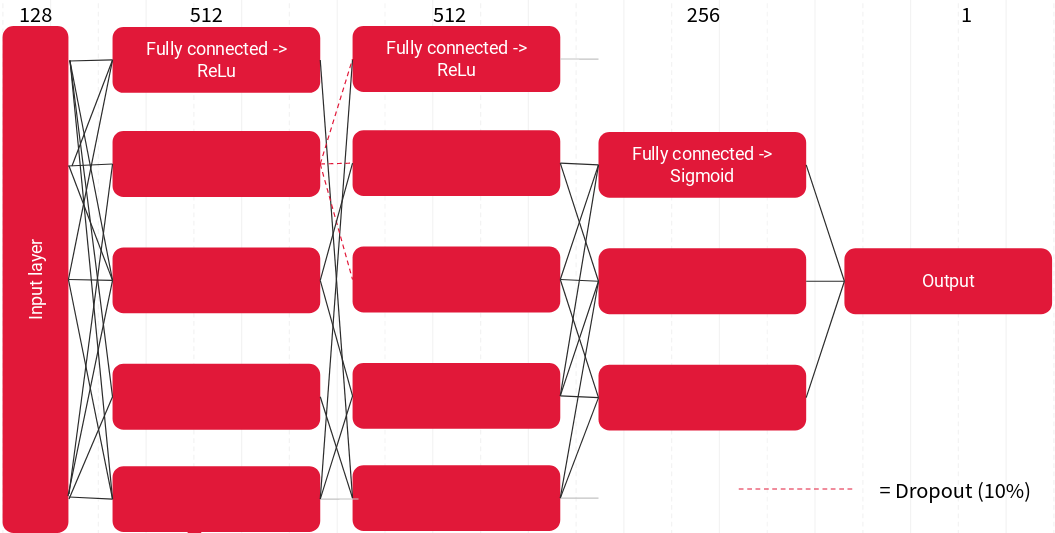
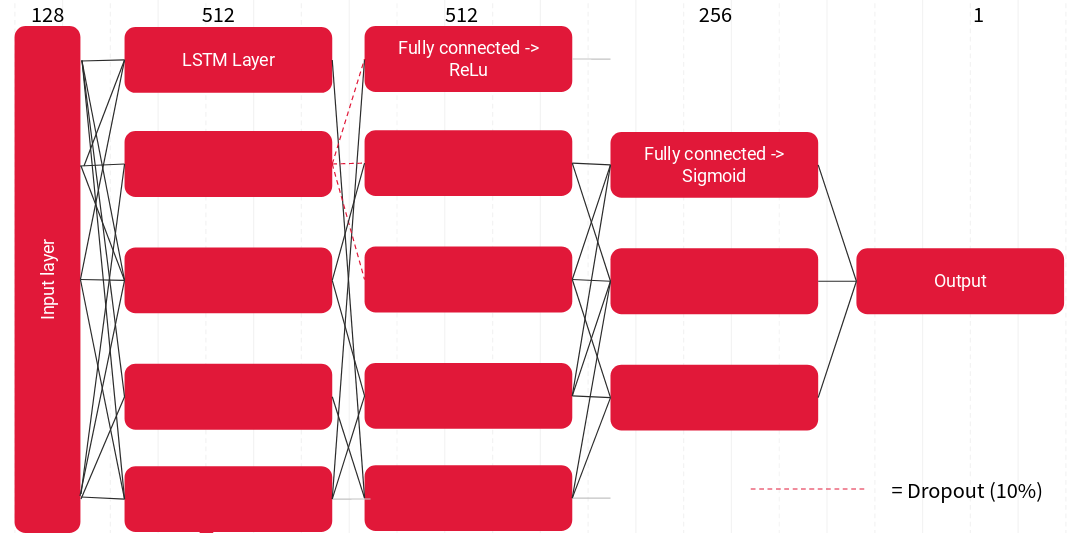
Added figure captions

diff --git a/README.md b/README.md
@@ -58,6 +58,9 @@ Contained within the `Ensembl_api_training_data_download_and_gene_confidence_cal
 For processing multiple genomes on the EMBL EBI HPC platform, a script in the `run scripts` directory is provided to facilitate batch processing.
 
 ![Gene scoring](Images_readme/Gene_scoring.png)
+***Figure 1**: Gene Annotation Quality Evaluation*
+
+*Annotations are analyzed by `high_confidence_genes_gsoc23_full_gff_with_repeats_with_strand.pl` based on parameters like intron size, canonical splicing, and alignment with recognized proteins.*
 
 ### Cleaning up Genomes
 
@@ -87,7 +90,8 @@ The `Training_data_cleaning` directory is pivotal for this process:
 Furthermore, the `Nextflow_data_preprocession` directory contains a Nextflow pipeline that merges data acquisition and the above cleaning steps. This integrated solution prepares high-quality training data, although stability might vary.
 
 ![Data cleaning](Images_readme/Data_cleaning.png)
-
+***Figure 2**: Gene Annotation Quality Evaluation*
+*This figure illustrates two strategies for refining gene annotations and associated sequences. The first strategy, **GFF-Only Filtering**, focuses on improving `.gff` annotations while preserving sequence integrity. It hypothesizes that low-quality genes might be pseudogenes without protein-coding capacity. Such genes are treated as "intergenic regions" during classifier training. The second strategy, **GFF Filtering & Sequence Excision**, takes a more comprehensive approach by addressing both `.gff` annotations and linked sequences. It excludes elements of lower confidence due to limited information about low-quality genes, which are consequently omitted from training data. The process of gene annotation refinement involves the removal of low-quality and overlapping genes.* 
 
 ### Feature Extraction and Sequence Fragmentation
 
@@ -146,11 +150,18 @@ Contained within the `Sequence classification` directory, this segment of the pr
       - A sigmoid activation function is applied post FC2, translating outputs to probabilities, making it apt for binary classification tasks.
 
 ![BiLSTM architecture](Images_readme/BiLSTM.png)
+***Figure 3**: BiLSTM architecture*
+
+*The network comprises of multiple layers: **LSTM Layer**: Comprising multiple bidirectional LSTM layers, this component efficiently handles sequences of varying lengths, facilitating bidirectional information flow for enhanced context understanding. **Intermediate Fully Connected Layer (FC1)**: This layer transforms LSTM outputs, mapping them to an intermediate space that prepares them for the final classification step. **Dropout Layer**: Placed after FC1, the dropout layer introduces randomness by setting a fraction of input units to 0 during each training update. This mechanism helps prevent overfitting by promoting robust learning. **Final Fully Connected Layer (FC2)**: The last layer of the architecture, FC2, transforms the processed LSTM outputs into a one-dimensional space, effectively priming them for binary classification tasks.*
     
   - **Loss Function - F-beta Score**:
     - The F-beta score, a measure of a model's accuracy, weighs recall and precision of the "gene" class. This makes it better suitable for unbalanced datasets. A beta of 1 considers both recall and precision equally, but when adjusted, it can emphasize the importance of one over the other.
 
-![F-beta score](Images_readme/F_beta_score.png)
+![F-beta score](Images_readme/F_beta_loss.png)
+
+***Figure 4**: F-beta loss*
+
+*Controlled by the parameter beta, the F-beta loss adapts precision-recall balance. Beta influences the weight assigned to recall in relation to precision. A higher beta places more emphasis on recall, capturing more positives even if accompanied by increased false positives. Conversely, a lower beta prioritizes precision, reducing false positives but potentially missing positives. The F-beta loss formula incorporates true positives (TP), false positives (FP), and false negatives (FN). This integration enables models to optimize the trade-off between false positives and false negatives, enhancing performance on imbalanced datasets.*
 
 - **Shallow Learning Approaches**:
   - **Files**: `shallow-learning`
